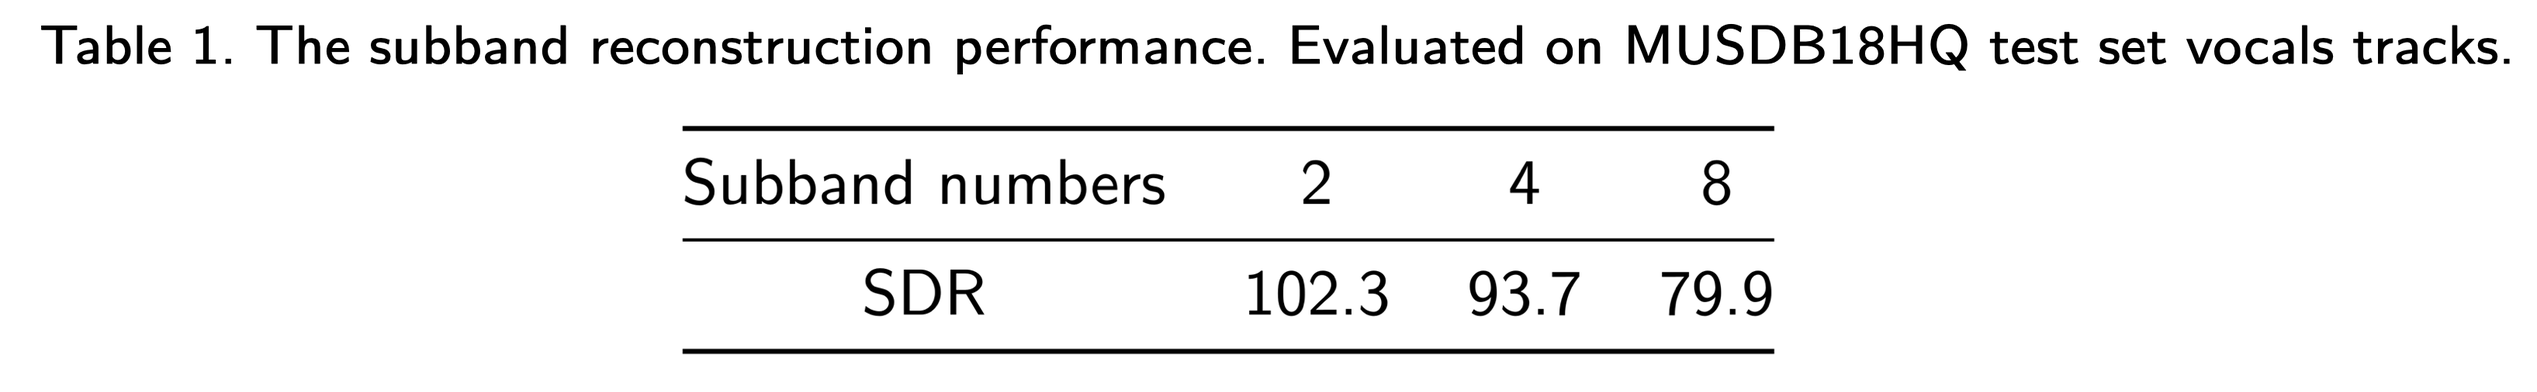
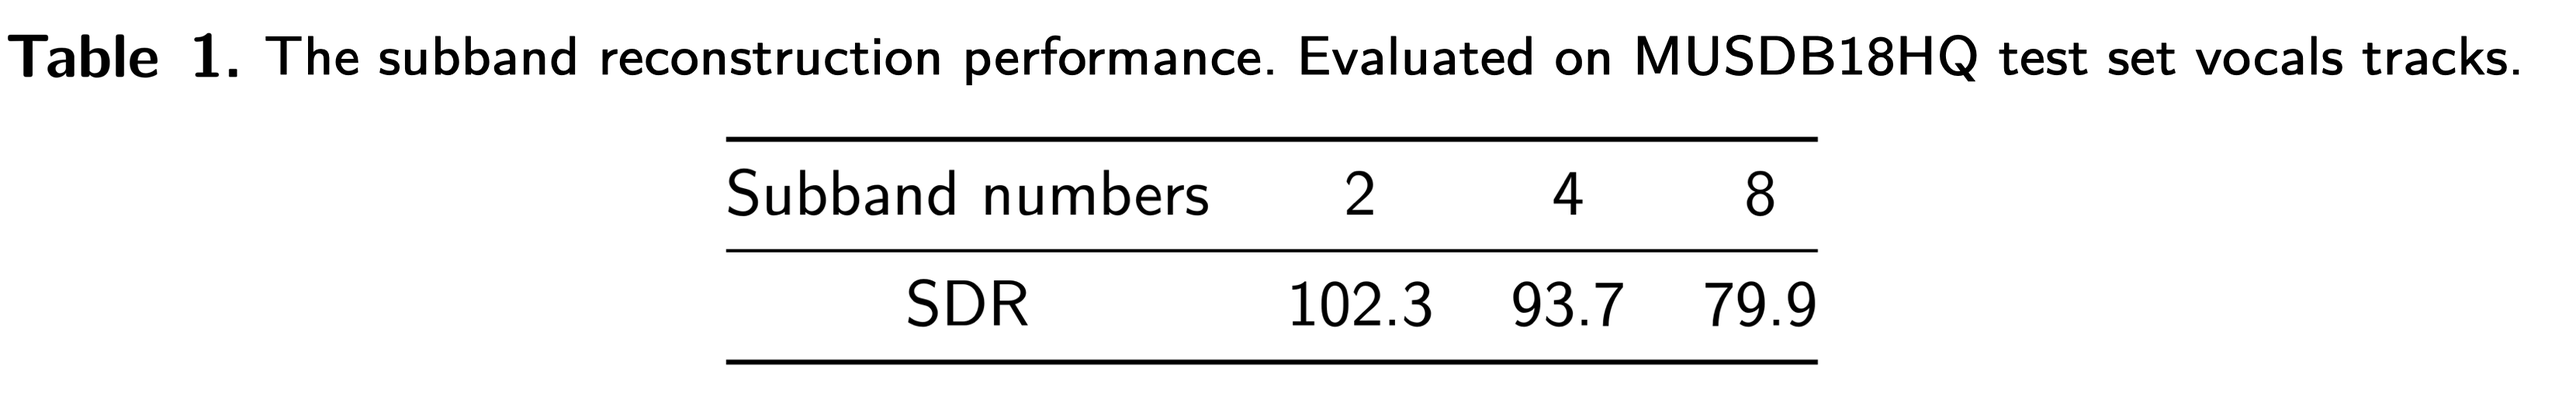
update equation

diff --git a/paper.md b/paper.md
@@ -65,12 +65,11 @@ The subband analysis and synthesis operations usually cannot achieve perfect rec
 |:---------------:|:-----:|:----:|:----:|
 |       SDR       | 102.3 | 93.7 | 79.9 | -->
 
-**Table 1.** The subband reconstruction performance. Evaluated on MUSDB18HQ test set vocals tracks.  
+
 ![](graphs/table1.png){ width=100% }
 
 Table 2 lists the results of the baselines and our proposed systems. Our CWS-PResUNets achieve an SDR of 8.92 and 5.84 on `vocals` and `other` sources, respectively, outperforming the baseline X-UMX [@x-umx-sawata2021all], D3Net [@takahashi2020d3net], and Demucs systems by a large margin. Demucs performs better than CWS-PResUNet on `bass` and `drums` tracks. We assume that is because time-domain models can learn better representations than time-frequency features so are more suitable on separating percussive and band-limited sources. The average performance of our ByteMSS system is 6.97, marking a SoTA performance on MSS. Considering the high performance of the `vocals` model, we also attempt to separate three instrumental sources from `mixture` minus `vocals`. In this case, the average score remains 6.97, in which the `drums` score increase to 6.72 but the other three sources drop slightly. In the future we will address the integration of time and frequency models for the compensations in both domains.
 
-**Table 2.** Evaluation results on MUSDB18HQ test set.
 ![](graphs/table2.png){ width=100% }
 
 <!-- |    Models    | Vocals | Drums |  Bass | Other | Average |
